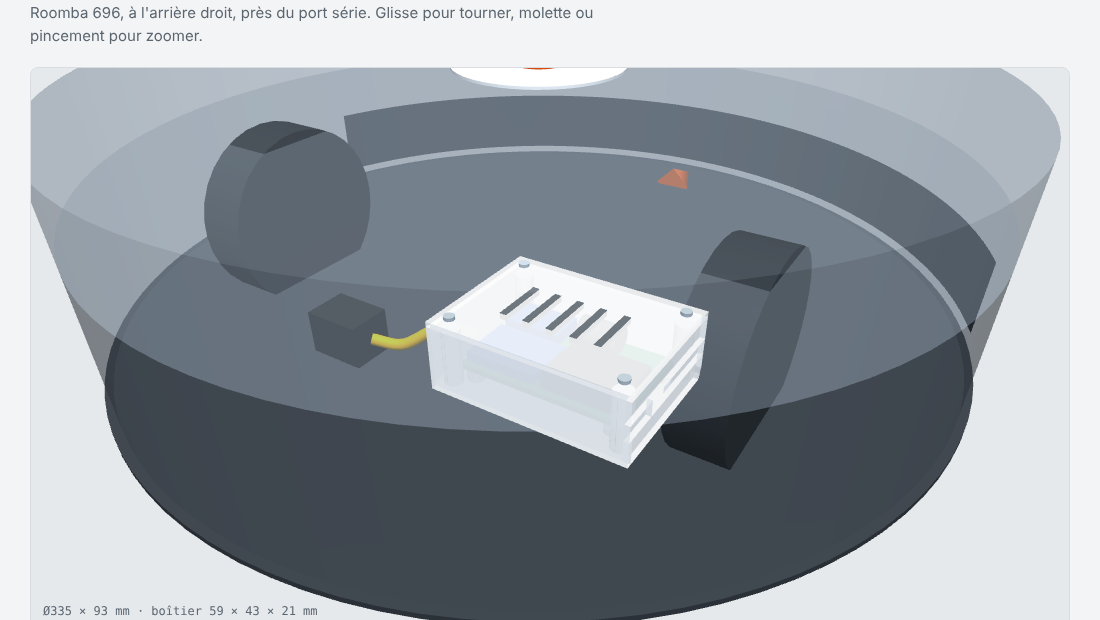
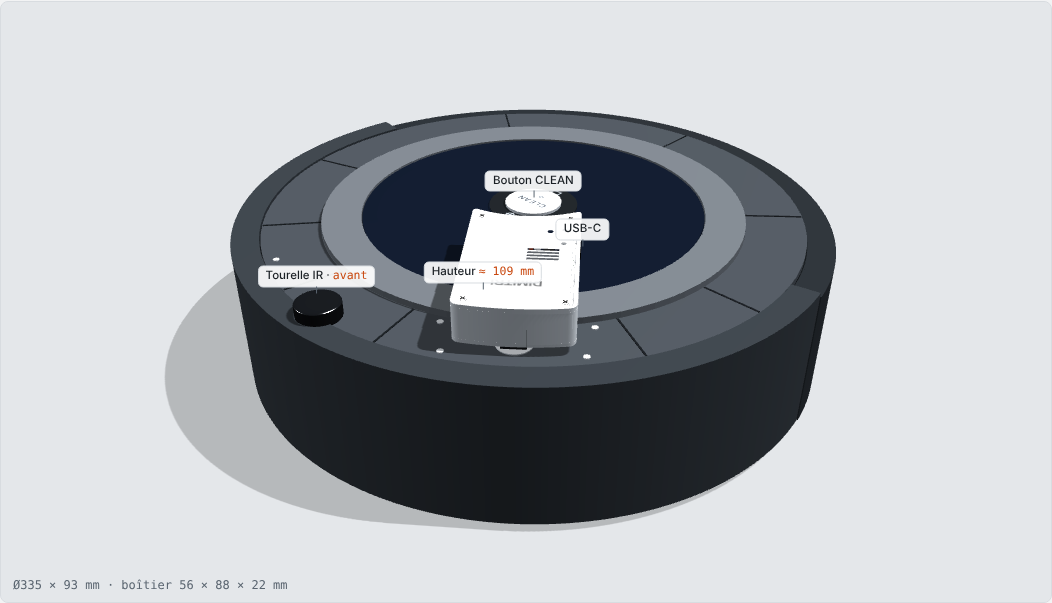
Boitier pose sur le dessus du robot, centre sur le port serie
- enclosure.scad : boitier en arc sur le dessus, fiche coudee par le fond,
  perfboard 50x40, pieds a deux hauteurs, couvercle detaille, gabarit
- port serie : sur le dessus, avant gauche (corrige "sous le capot, arriere droit")
- apercus 3D dans docs/

Claude-Session: https://claude.ai/code/session_01ShVLMYP9MXu2Qnv3EFzJE4

diff --git a/TUTORIEL.md b/TUTORIEL.md
@@ -106,7 +106,7 @@ Si le « 3.5.62 » de l'app était le même numéro que celui de la carte mère,
 | **Résistances** : 1 kΩ ×2, 4,7 kΩ ou 5,1 kΩ ×2, 10 kΩ ×2 | diviseur de tension, base du transistor | ~1 € |
 | **Condensateur 470-1000 µF 16 V** | stabilise l'alim | < 1 € |
 | **Connecteur mini-DIN 7 broches mâle** ou **câble OI/Create 2** (ex. Adafruit 2438 [S10], non lu en détail) ou **fils à souder** | liaison au robot | ~3-6 € |
-| **Perfboard (plaque à trous) ≈ 48×32 mm**, fil de câblage fin, gaine thermorétractable | assemblage | ~2-3 € |
+| **Perfboard (plaque à trous) ≈ 50×40 mm**, fil de câblage fin, gaine thermorétractable | assemblage | ~2-3 € |
 | **Câble USB-C DE DONNÉES** (pas un câble de charge seule) | flasher l'ESP [S14b] | — |
 
 Ce dont tu as besoin et que tu n'as peut-être pas : **un multimètre** (~10-15 €, indispensable), **un fer à souder + étain** (ou, à défaut, une planche d'essai « breadboard » pour les tests, mais le montage final doit être soudé).
@@ -244,10 +244,10 @@ Tu as validé : le firmware compile, l'ESP se connecte au Wi-Fi, HA le voit. **D
 4. Soulève le capot **par l'arrière** à l'outil plastique, en suivant le bord : clic des clips = normal. 📷 à chaque progression.
 5. Stop si tu vois un **câble tendu** : trouve où il va avant d'aller plus loin.
 
-✅ **Tu dois voir :** la carte mère et, **à l'arrière droit**, le connecteur du port série.
+✅ **Sur Dimitri :** le port série est **sur le dessus**, visible dès que la bague argentée est retirée, à l'**avant gauche** (environ 40° à gauche de la tourelle infrarouge, photo `docs/photos/port-serie-position.jpg`). Pas besoin d'ouvrir le capot pour l'atteindre.
 
 ### 5.4 Reconnaître le port OI
-- La spec place un **mini-DIN 7 broches « à l'arrière droit, sous un cache plastique à rompre »** [S1 ; ⚠ cette formulation provient de résultats de recherche, le PDF n'a pas pu être relu mot à mot].
+- La spec place un **mini-DIN 7 broches « à l'arrière droit, sous un cache plastique à rompre »** [S1 ; ⚠ cette formulation provient de résultats de recherche, le PDF n'a pas pu être relu mot à mot]. **Sur Dimitri, les photos montrent autre chose** : le port est sur le dessus, à l'avant gauche, sous la bague décorative.
 - Sur le 690 d'un projet Hackaday, la **bague argentée cache le connecteur OI**, et le **trou dans le capot est trop étroit pour le mini-DIN complet** : l'auteur a fabriqué un **connecteur sur mesure** (JST en ligne) et fait passer ses fils sous la carte mère [S12].
 - Autres projets : le port est **sous le capot supérieur** [S20][S21].
 
@@ -419,18 +419,20 @@ Le port fournit Vpwr via un **fusible PTC de 200 mA** [S1 p.3] ; **ne dépasse p
 
 ## 10. Imprimer le boîtier en 3D
 
-> Le 696 fait environ **Ø335 × 93 mm** (fiches vendeurs : Icecat, Epey), mais la **place libre sous le capot reste inconnue**. On **mesure** la place disponible, on **imprime un gabarit**, puis le boîtier.
+> Le boîtier se pose **sur le dessus** du robot et coiffe le port série : la fiche mini-DIN coudée descend dans le port par un trou du fond. Le 696 fait environ **Ø335 × 93 mm** (fiches vendeurs : Icecat, Epey) ; avec le boîtier, il monte à **≈ 109 mm**. Vérifie qu'il passe encore sous tes meubles. Aperçu : `docs/apercu-boitier.png`.
 
-### 10.1 Mesurer la place
-Robot ouvert : mesure **longueur × largeur × hauteur libres** à côté du port (derrière la roue droite sous le capot, par exemple). Pour référence, un projet a logé une carte de 5,9 × 1,9 cm dans cet espace sur un 632 [S9] ; ton ESP32-C3 SuperMini fait environ 22,5 × 18 mm (⚠ cote usuelle, à mesurer).
+### 10.1 Mesurer et caler avec le gabarit
+1. Ouvre `hardware/enclosure.scad` dans OpenSCAD. Les valeurs à vérifier sont en haut : `port_r` (distance centre du robot → port, 134 mm estimé sur photo), `port_a` (angle depuis la tourelle, 39° vers la gauche), `feet_in_h` et `feet_out_h` (hauteur des pieds sur le capot central et dans la piste du port, ⚠ estimées).
+2. `part = "mock"` → **F6** → **Fichier → Exporter → Exporter en STL** [S18b]. Imprime ce **cadre plat de 1,2 mm**.
+3. Pose-le sur Dimitri : l'**anneau** doit entourer le port. Sinon, corrige `port_r` / `port_a` et réimprime.
+4. Mesure au pied à coulisse le dénivelé entre le capot central brillant, l'anneau gris et la piste du port, puis ajuste `feet_in_h` et `feet_out_h` (le fond doit passer au-dessus de l'anneau gris sans le toucher).
 
-### 10.2 Ouvrir et paramétrer `hardware/enclosure.scad`
-1. Ouvre le fichier dans OpenSCAD.
-2. En haut : `inner_l`, `inner_w`, `inner_h` = **ta place disponible moins 2 mm**.
-3. Réglage de `part = "mock"` → **F6** (rendu) → **Fichier → Exporter → Exporter en STL** [S18b]. Imprime ce **cadre plat** et **essaie-le dans le robot**.
+### 10.2 Fiche et fixation
+- Fiche : une **mini-DIN coudée** (ou un câble sacrifié). Sa partie métallique descend dans le port ; le corps reste dans le boîtier (⚠ vérifie que le corps fait moins de 10 mm de haut).
+- Fixation : 4 pastilles d'**adhésif double face épais** (type VHB) sous les pieds. Le boîtier reste démontable en tirant doucement.
 
 ### 10.3 Boîtier
-1. `part = "box"` → F6 → exporter le STL ; `part = "lid"` → idem.
+1. `part = "box"` → F6 → exporter le STL ; `part = "lid"` → idem. Imprime le boîtier **fond en bas** et le couvercle **face gravée sur le plateau**.
 2. Slicer (PrusaSlicer : importer → choisir imprimante/filament → **hauteur de couche 0,15-0,2 mm**, **remplissage ~15 %**, **supports si surplombs**, **« Slice now »** → exporter le G-code [S18]).
 3. Si OpenSCAD affiche `not a valid 2-manifold` : des faces coïncident ; fais dépasser légèrement les formes soustraites [S18b].
 4. Matériau : **PLA** suffit hors chaleur ; **PETG** si tu veux plus de tenue (⚠ recommandation générale, non sourcée).
@@ -441,7 +443,7 @@ Robot ouvert : mesure **longueur × largeur × hauteur libres** à côté du por
 
 1. **Soude** le montage sur la perfboard (ou fais les contrôles de l'étape 7.3 sur la version finale).
 2. Fixe le **MPU6050 à plat, rigide** (double-face ou vis), **axe Z vertical**, **loin du moteur de brosse** (vibrations ; le moteur de brosse perturbe aussi les magnétomètres [S30], on n'utilise que le gyro).
-3. Fais passer les fils **sans pincement** sous les rebords du capot. Le projet 178565 signale qu'il y a peu de place entre le module de brosse et le châssis [S12].
+3. Passe la fiche par le trou du fond, serre les fils entre les deux plots avec un collier, branche la fiche dans le port, puis colle le boîtier. Rien ne passe sous le capot.
 4. **Rebranche** : mini-DIN (ou fils soudés), refais **la mesure de courant** de l'étape 9.
 5. **Avant de refermer**, fais **tous les tests** de l'étape 8 (commandes, capteurs, cap) **ouvert**.
 6. Referme en suivant **l'ordre inverse** (photos). Remets les **vis à leur place** (types différents).
@@ -610,7 +612,7 @@ La spec : **508,8 comptes par tour de roue**, roue 72 mm → ~0,4445 mm/compte [
 - **Efficacité du maintien d'éveil** sur la base pour un firmware ancien.
 - **Compilation** du firmware, **syntaxe `template: - vacuum:`** selon ta version de HA, **dossier des apps AppDaemon**, **installation de Pillow** sur AppDaemon, compatibilité **Python 3.14** avec ESPHome.
 - **Précision de la carte** sur le vrai robot (seule une simulation a été faite).
-- **Dimensions disponibles** sous le capot.
+- **Position exacte du port et hauteurs du dessus** du robot (pour caler le boîtier : gabarit `part = "mock"`).
 - Prix : estimations / relevés partiels.
 
 ---

diff --git a/README.md b/README.md
@@ -37,7 +37,7 @@ Liste complète et schéma de câblage : [`hardware/WIRING.md`](hardware/WIRING.
 | `firmware/` | config ESPHome (`roomba.yaml`) et composant C++ `roomba_oi` (flux de capteurs, pose, pilotage) | écrit, **non compilé** |
 | `ha/` | package Home Assistant, tableau de bord, carte joystick | écrit, **non testé** |
 | `mapper/` | grille d'occupation, rendu PNG, app AppDaemon, simulateur | cœur testé en simulation, app AppDaemon non testée |
-| `hardware/` | câblage, brochage du port de Dimitri, boîtier 3D (`enclosure.scad`) | brochage déduit, à confirmer au multimètre ; cotes du boîtier à mesurer |
+| `hardware/` | câblage, brochage du port de Dimitri, boîtier 3D posé sur le dessus (`enclosure.scad`, aperçu : `docs/apercu-boitier.png`) | brochage déduit, à confirmer au multimètre ; position du port et hauteurs du dessus à mesurer |
 | [`roomba-696-handoff.md`](roomba-696-handoff.md) | notes et sources de départ | référence |
 
 ## Démarrer
@@ -59,7 +59,7 @@ Liste complète et schéma de câblage : [`hardware/WIRING.md`](hardware/WIRING.
 
 ## Dimitri ouvert : où est le port série
 
-Dimitri a été démonté assez largement (batterie, brosse latérale, pare-chocs, vis du dessous retirés). Le propriétaire pense qu'**il suffisait de déclipser le capot du dessus** pour atteindre le port, mais ce point n'est pas vérifié : essaie d'abord de soulever le capot avec un outil plastique, sans forcer, batterie retirée. Le port série est un **mini-DIN 7 broches** à l'arrière droit, sous le bord du capot.
+Dimitri a été démonté assez largement (batterie, brosse latérale, pare-chocs, vis du dessous retirés). Le propriétaire pense qu'**il suffisait de déclipser le capot du dessus** pour atteindre le port, mais ce point n'est pas vérifié : essaie d'abord de soulever le capot avec un outil plastique, sans forcer, batterie retirée. Le port série est un **mini-DIN 7 broches sur le dessus du robot**, sous la bague décorative argentée (retirée sur Dimitri) : à l'**avant gauche**, environ 40° à gauche de la tourelle infrarouge vue de dessus (la tourelle est à l'avant). Pas besoin d'ouvrir le capot pour l'atteindre.
 
 <p align="center">
   <img src="docs/photos/pieces-demontees.jpg" alt="Pièces retirées autour du robot" width="48%">
@@ -73,7 +73,7 @@ Dimitri a été démonté assez largement (batterie, brosse latérale, pare-choc
   <img src="docs/photos/port-serie-gros-plan.jpg" alt="Le connecteur mini-DIN de près" width="48%">
 </p>
 
-*Le port série, à l'arrière droit, près de la tourelle infrarouge (à gauche), et de près (à droite) : 7 trous, une clé rectangulaire au centre, la fente du boîtier en bas à gauche.*
+*Le port série, sur le dessus à l'avant gauche, près de la tourelle infrarouge (à gauche), et de près (à droite) : 7 trous, une clé rectangulaire au centre, la fente du boîtier en bas à gauche.*
 
 ### Brochage
 

diff --git a/docs/ETAT_AVANCEMENT.md b/docs/ETAT_AVANCEMENT.md
@@ -12,13 +12,13 @@ Le robot (« Dimitri », Roomba 696) est démonté, le port série est repéré 
 |---|---|---|
 | Analyse du robot | Roomba 696 (r696040), app 3.5.62-95 | non (version série du firmware inconnue) |
 | Démontage | batterie, brosse, pare-chocs et capot retirés, port série accessible | oui (photos) |
-| Port série repéré | mini-DIN 7 broches sous le capot, arrière droit | oui (photos) |
+| Port série repéré | mini-DIN 7 broches sur le dessus, sous la bague décorative, avant gauche (~40° à gauche de la tourelle IR) | oui (photos) |
 | Brochage du port | déduit du schéma de la spec iRobot, p. 3, voir [`hardware/brochage_port_dimitri.png`](../hardware/brochage_port_dimitri.png) | **non** : à confirmer au multimètre |
 | Firmware ESPHome + composant `roomba_oi` | flux de capteurs, pose odométrie + gyro, pilotage, watchdog, réveil | **non compilé** |
 | Config Home Assistant | aspirateur, planning, automations, carte, joystick | **non testée** |
 | Mapper | grille 5 cm, rendu PNG, simulateur | oui, en simulation seulement |
 | Tutoriel | 19 sections, sources S1-S40 | relu sur le papier, pas suivi de bout en bout |
-| Boîtier 3D | modèle paramétrique `enclosure.scad` (plaque 48×32, boîtier 59×43×21 mm, aperçu sur le robot : `docs/apercu-boitier.png`) | non imprimé, non compilé sous OpenSCAD, place sous le capot à mesurer |
+| Boîtier 3D | `enclosure.scad` : boîtier posé sur le dessus, centré sur le port, fiche coudée par le fond, perfboard 50×40, 56×88×22 mm (aperçus : `docs/apercu-boitier.png`, `docs/apercu-boitier-ouvert.png`) | non imprimé, non compilé sous OpenSCAD, position du port et hauteurs du dessus à mesurer |
 
 ## Brochage du port (état actuel)
 
@@ -37,7 +37,7 @@ Voir l'image et la note dans [`hardware/WIRING.md`](../hardware/WIRING.md).
 5. Lire la vraie version du firmware du robot (bouton « Lire version firmware ») pour savoir si le réveil par BRC est possible.
 6. Mesurer le courant sur Vpwr (doit rester sous 200 mA), puis alimenter l'ESP depuis le robot.
 7. Calibrer l'odométrie et le cap, puis tester la carte dans Home Assistant.
-8. Mesurer l'espace disponible, ajuster et imprimer le boîtier, remonter le robot.
+8. Imprimer le gabarit (`part = "mock"`), le poser sur le dessus pour caler la position du port, mesurer les hauteurs, puis imprimer le boîtier.
 
 ## Risques connus
 

diff --git a/roomba-696-handoff.md b/roomba-696-handoff.md
@@ -33,7 +33,7 @@ Projets à éviter (obsolètes) : mannkind/ESPHomeRoombaComponent (archivé 2020
 - Niveaux : TX Roomba (5 V) vers RX ESP (3,3 V) via diviseur 5 kΩ / 10 kΩ.
 - Alim : buck converter (Mini360 : entrée 4,75-23 V) vers 5 V ; mesurer le pin 1 au multimètre. Ajouter 470-1000 µF. En test, alimenter l'ESP en USB.
 - GPIO vers BRC (pin 5) ; impulsion basse au moins 1 fois par minute pour éviter la veille profonde.
-- À vérifier : présence du mini-DIN sous le capot du 696, version du firmware.
+- Mini-DIN : présent sur le dessus du 696, sous la bague décorative, à l'avant gauche (photos du 13/11/2026). Reste à vérifier : version du firmware.
 - Impression 3D : boîtier / support ESP (la spec iRobot donne les bossages de vis internes et les cotes).
 
 ## Questions ouvertes

diff --git a/hardware/WIRING.md b/hardware/WIRING.md
@@ -70,4 +70,4 @@ Notes :
 | Résistances 1 kΩ, 5 kΩ (ou 4,7k), 10 kΩ | 1 chacune |
 | Condensateur 470-1000 µF 16 V | 1 |
 | Mini-DIN 7 broches mâle (ou câble OI sacrifié) | 1 |
-| Perfboard ~48×32 mm, fil fin, gaine thermo | — |
+| Perfboard ~50×40 mm, fil fin, gaine thermo | — |
